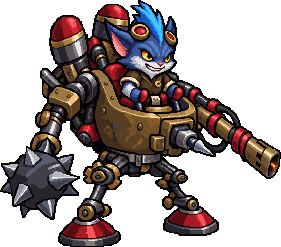
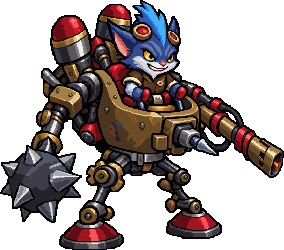
rumble: step 0 is the user's rumble-sized-v4 (A and B read back from raw/: hd/A 284x250, hd/B 234x161); step-1 pack redone on B (63 rows, 12 px squares, PPU 1.75 at 36 game px, two takes)
Claude-Session: https://claude.ai/code/session_016HegXd5kPbtR1EjTAwa61E

Changed region(s): [[0.0, 0.0, 1.0, 1.0], [0.2278, 0.9919, 0.2562, 1.0]]

diff --git a/tools/art/design_rumble_hd.py b/tools/art/design_rumble_hd.py
@@ -1,17 +1,20 @@
 #!/usr/bin/env python3
-"""Rumble's step-0 picture read back on its own grid.
+"""Rumble's step-0 pictures read back on their own grid, A and B on one palette.
 
-    python tools/art/design_rumble_hd.py [--a 5.0]   # writes assets/source/rumble/hd/A.png (+ _4x)
+    python tools/art/design_rumble_hd.py [--a 5.0] [--b 4.2]   # writes assets/source/rumble/hd/{A,B}.png (+ _4x)
 
-Step 0 (assets/source/rumble/codex_picture/rumble-1.png, delivered 2026-10-25 as one 1254 px webp, saved as png): his
-idle 3/4 front facing right; drawn without League's references (the pack went out without refs 1-9: the container could
+Step 0 (assets/source/rumble/codex_picture/rumble-sized-v4, the user's pick 2026-10-25: 「用这个吧 刚才那个不对」 - its
+raw/ drafts; its own rumble-A/B.png are the drafts squeezed by nearest-neighbour into a 484x495 box, x and y by different
+factors, so they are not read). A: his idle 3/4 front facing right (the same drawing as the first delivery, re-encoded);
+B: the same "more chibi" - the head about a third of his height, the mech shorter and rounder, drawn smaller on the
+canvas (squares about 4 px). drawn without League's references (the pack went out without refs 1-9: the container could
 not reach raw.communitydragon.org), so Codex drew Rumble from its own knowledge - blue fur and a blue mohawk, the goggles
 pushed up, yellow eyes, a grin; the mech brass-olive and rusty, a long flamethrower cannon forward (image right), a
 harpoon spike on its chest, a SPIKED MACE BALL on the back arm (asked: a claw), two red-capped rocket pods on its back,
 thin jointed legs on red disc feet. Asked 1536 and 11 px squares: the squares run 4-5 px (soft, no exact grid, lossy
 alpha 224-254 inside); regrid is given a little above (it splits rows below the real square), as for Kled.
-Read on SIZE px squares, one pixel per drawn square; the colours cut to COLOURS by k-means in Lab (design_varus.kmeans),
-alpha 0/255.
+Read on SIZE px squares, one pixel per drawn square; the colours of the two cut to COLOURS together by k-means in Lab
+(design_varus.kmeans), alpha 0/255.
 """
 import argparse
 import os
@@ -34,9 +37,9 @@ def lp(path):
     return pre + path if os.name == "nt" and not path.startswith(pre) else path
 
 
-SRC = os.path.join(ROOT, "assets", "source", "rumble", "codex_picture")
+SRC = os.path.join(ROOT, "assets", "source", "rumble", "codex_picture", "rumble-sized-v4", "raw")
 OUT = os.path.join(ROOT, "assets", "source", "rumble", "hd")
-FILES = {"A": "rumble-1.png"}
+FILES = {"A": "rumble-A-raw.png", "B": "rumble-B-raw.png"}
 COLOURS = 40
 
 
@@ -54,18 +57,30 @@ def read(name, size):
 def main():
     ap = argparse.ArgumentParser()
     ap.add_argument("--a", type=float, default=5.0)
+    ap.add_argument("--b", type=float, default=4.2)
     ap.add_argument("--out", default=OUT)
     a = ap.parse_args()
     os.makedirs(lp(a.out), exist_ok=True)
-    d = read("A", a.a)
-    op = d[..., 3] > 0
-    idx, pal = V.kmeans(d, COLOURS)
-    out = np.zeros_like(d)
+    parts = [read("A", a.a), read("B", a.b)]
+    h = max(p.shape[0] for p in parts)
+    both = np.zeros((h, sum(p.shape[1] for p in parts), 4), np.uint8)
+    x = 0
+    for p in parts:
+        both[:p.shape[0], x:x + p.shape[1]] = p
+        x += p.shape[1]
+    op = both[..., 3] > 0
+    idx, pal = V.kmeans(both, COLOURS)
+    out = np.zeros_like(both)
     out[op, :3] = pal[idx[op]]
     out[op, 3] = 255
-    Image.fromarray(out).save(lp(os.path.join(a.out, "A.png")))
-    Image.fromarray(np.repeat(np.repeat(out, 4, 0), 4, 1)).save(lp(os.path.join(a.out, "A_4x.png")))
-    print("A", out.shape[1], "x", out.shape[0])
+    x = 0
+    for name, p in zip(("A", "B"), parts):
+        part = out[:p.shape[0], x:x + p.shape[1]]
+        x += p.shape[1]
+        part = part[np.ix_(np.any(part[..., 3] > 0, 1), np.any(part[..., 3] > 0, 0))]
+        Image.fromarray(part).save(lp(os.path.join(a.out, f"{name}.png")))
+        Image.fromarray(np.repeat(np.repeat(part, 4, 0), 4, 1)).save(lp(os.path.join(a.out, f"{name}_4x.png")))
+        print(name, part.shape[1], "x", part.shape[0])
 
 
 if __name__ == "__main__":

diff --git a/tools/art/pack_rumble_model.py b/tools/art/pack_rumble_model.py
@@ -4,14 +4,14 @@ BIG so the image generator's habit of filling the canvas lands on the right coun
 
     python tools/art/pack_rumble_model.py [--out outputs/rumble_model_pack]
 
-The pick (2026-10-25, review_rumble_size.py): 44 game px from the tip of his mohawk to the mech's red feet at PPU 1.75
-(Yorick's) -> 77 squares (hd/A, the mohawk its first row, 247 rows); about 88 squares across with the mace and the
-cannon, so 13 px squares (88 x 13 = 1144 inside Codex's 1254 canvas). The pilot's head is only ~29% of the height in
-step 0 (rows 0-72): take 1 keeps the design, take 2 is the "more chibi" B the step-0 pack asked for and did not get
-(the head about a third of the height, the mech more compact). The feet's bottom edge is a whole number of squares from
-the canvas top (1196 = 92 x 13), so the grid starts at the corner.
-Writes <out>/ (and <out>.zip): MODEL_PROMPTS.md, 1_picture_A.png (step 0, the look to keep), 2_target_A.png (cut to the
-count: size, place, pose - details broken), 3_layout_A.png (with the grid, the top / eye / ground lines), 4_head.png (his
+The design: step 0's B (rumble-sized-v4, the user's delivery 2026-10-25), the more chibi one - at game size A's face is a
+few pixels (its head ~29% of the height), B's reads like Heimerdinger's (review_rumble_size.py). B is wide (1.45 : 1),
+so the pick is 36 game px from the tip of his mohawk to the mech's red feet at PPU 1.75 (Yorick's) -> 63 squares (hd/B,
+the mohawk its first row, 161 rows), about 53 game px / 92 squares across with the mace and the cannon (Urgot 49):
+12 px squares (92 x 12 = 1104 inside Codex's 1254 canvas). Two takes of one prompt. The feet's bottom edge is a whole
+number of squares from the canvas top (1188 = 99 x 12), so the grid starts at the corner.
+Writes <out>/ (and <out>.zip): MODEL_PROMPTS.md, 1_picture_B.png (step 0, the look to keep), 2_target_B.png (cut to the
+count: size, place, pose - details broken), 3_layout_B.png (with the grid, the top / eye / ground lines), 4_head.png (his
 head read back, 8x), style/5..7.
 """
 import argparse
@@ -31,8 +31,8 @@ from pack_gangplank_model import cut, up  # noqa: E402
 
 SRC = os.path.join(ROOT, "assets", "source", "rumble")
 # name -> (rows, px a square, lowest point's bottom edge, his eye row in hd/<name>.png)
-PICS = {"A": (77, 13, 1196, 56)}
-HEAD = (0, 76, 104, 182)   # rows / cols of his head (the mohawk to the chin, both ears, the goggles) in hd/A.png
+PICS = {"B": (63, 12, 1188, 46)}
+HEAD = (0, 66, 86, 160)   # rows / cols of his head (the mohawk to the chin, both ears, the goggles) in hd/B.png
 GREY = (225, 225, 225)
 STYLE = {"5_style_kled.png": ("kled", "hd_idle"), "6_style_blitzcrank.png": ("blitzcrank", "idle"),
          "7_style_urgot.png": ("urgot", "hd_idle")}
@@ -61,11 +61,12 @@ def main():
         RM.lines(lay, top, eye, f"{name}: orange the top y {top}   blue his eyes y {eye}   red ground y {sole}   "
                  f"one square = {px} px   {g.shape[1]} x {g.shape[0]} squares")
         lay.convert("RGB").save(os.path.join(out, f"3_layout_{name}.png"))
-        shutil.copyfile(lp(os.path.join(SRC, "codex_picture", "rumble-1.png")), os.path.join(out, f"1_picture_{name}.png"))
+        shutil.copyfile(lp(os.path.join(SRC, "codex_picture", "rumble-sized-v4", "raw", f"rumble-{name}-raw.png")),
+                        os.path.join(out, f"1_picture_{name}.png"))
         report.append(f"{name} {g.shape[1]}x{g.shape[0]} at ({x0},{y0}) px {px}, top y {top}, eyes y {eye}, "
                       f"ground y {sole}")
     r0, r1, c0, c1 = HEAD
-    d = np.asarray(Image.open(lp(os.path.join(SRC, "hd", "A.png"))).convert("RGBA"))
+    d = np.asarray(Image.open(lp(os.path.join(SRC, "hd", "B.png"))).convert("RGBA"))
     h = d[r0:r1, c0:c1]
     hb = Image.new("RGBA", (h.shape[1] * 8, h.shape[0] * 8), GREY + (255,))
     hb.alpha_composite(Image.fromarray(up(h, 8)))

diff --git a/tools/art/review_rumble_size.py b/tools/art/review_rumble_size.py
@@ -1,5 +1,5 @@
 #!/usr/bin/env python3
-"""Rumble's step-0 design at game size at several heights and PPUs, next to the pack's yordles and machines (Kled,
+"""Rumble's step-0 designs (A, and B the more chibi one, each at its own height) at game size at several heights and PPUs, next to the pack's yordles and machines (Kled,
 Blitzcrank, Corki, Heimerdinger, Urgot, Ziggs) as the game shows them, the lowest points on one line, for the user's pick.
 
     python tools/art/review_rumble_size.py --out DIR [--a 36,40,44] [--ppu 1.5,1.75,2.0] [--scale 4]
@@ -27,7 +27,7 @@ import ppu_hd  # noqa: E402
 SRC = os.path.join(ROOT, "assets", "source", "rumble", "hd")
 CHAMPS = os.path.join(ROOT, "league", "champions")
 NEIGHBOURS = ["kled", "blitzcrank", "corki", "heimerdinger", "urgot", "ziggs"]
-TOP = {"A": 0}   # the mohawk's outline row
+TOP = {"A": 0, "B": 0}   # the mohawk's outline row
 BG = (196, 200, 190, 255)
 
 
@@ -60,15 +60,15 @@ def main():
     ap.add_argument("--ppu", default="1.5,1.75,2.0")
     ap.add_argument("--scale", type=int, default=4)
     a = ap.parse_args()
-    D = {"A": np.asarray(Image.open(lp(os.path.join(SRC, "A.png"))).convert("RGBA"))}
+    D = {k: np.asarray(Image.open(lp(os.path.join(SRC, f"{k}.png"))).convert("RGBA")) for k in ("A", "B")}
     hs = [int(x) for x in a.a.split(",")]
     rows = []
     for ppu in [float(x) for x in a.ppu.split(",")]:
         cells = []
-        for key, heights in (("A", hs),):
+        for key, heights in (("A", hs), ("B", hs)):
             d = D[key]
             for h in heights:
-                k = ppu * h / (D["A"].shape[0] - TOP["A"])
+                k = ppu * h / (D[key].shape[0] - TOP[key])
                 im, _ = PD.pixelate(d, k, (d.shape[1] / 2, d.shape[0]), PD.edge_colour(d))
                 im = Image.fromarray(im)
                 im = im.crop(im.getbbox())

diff --git a/assets/source/rumble/MODEL_PROMPTS.md b/assets/source/rumble/MODEL_PROMPTS.md
@@ -1,77 +1,68 @@
 # 机械公敌 兰博：第 1 步，游戏尺寸造型（给 Codex 的提示词）
 
-> **这一步必须用画图模型（image_gen）画，不要用 Python 脚本逐格写，也不要把大图平滑缩小**。
-> - 第 0 步你画的原稿（`1_picture_A.png`）**样子、颜色用户认可了，全照它**：蓝毛约德尔人、蓝色莫西干头、额头上推着的红镜片护目镜、黄眼睛、坏笑；黄铜色带锈的机甲、往前伸的长喷火炮管、胸前的鱼叉尖、后面那只手的**带刺铁球**、背上两个红头火箭舱、细关节腿和红色圆盘脚。
-> - 这一步要画成**游戏里的格子数**：**从莫西干头顶到红色圆盘脚底 77 格**。我把图直接缩到这个格子数（`2_target_A.png`）：**大小、位置、姿势对，细节是缩坏的**（脸只剩几个色块、锈斑碎成杂斑）。请像一个像素画师照着第 0 步的图，在这么粗的格子上**重新画一遍**，每个细节都用整格画清楚。
-> - 第 0 步你的格子画得太细了（约 5 px 一格，约 247 格高）：这一步**每格画大**。画布用你平时的 **1254 × 1254**，**每格 13 px**。每一格都是一个完整的大方块，不要用更小的格子画细节。
-> - 一共画**两张**，都是 3/4 正面朝右、同一个待机姿势：
->   - **A-1：照原稿的比例**。
->   - **A-2：更 Q 的版本**——驾驶员的**头更大**（头连耳朵和莫西干约占全身高的三分之一，原稿只有四分之一出头），机甲**更紧凑**：炮管短一点、铁球小一点、腿短一点，总高还是 77 格。游戏里他只有 44 个像素高，A-2 是为了让脸看得清。
+> **这一步必须用画图模型（image_gen）画，不要用 Python 脚本逐格写，也不要把大图平滑缩小**（上一包 `rumble-sized-v4` 的 `rumble-A/B.png` 就是把大图最近邻压进一个框里、横竖压得还不一样，这样不行）。
+> - 第 0 步你画的 **B 稿**（`1_picture_B.png`，更 Q 的那张）**样子、颜色、比例用户认可了，全照它**：蓝毛约德尔人、亮蓝莫西干头、额头上推着的红镜片金框护目镜、黄眼睛、坏笑；黄铜色带锈的敞口驾驶舱、往前伸的长喷火炮管（红箍）、后面那只机械手握着的**带刺铁球**、背上两个红头火箭舱、短粗的关节腿和红色圆盘脚。
+> - 这一步要画成**游戏里的格子数**：**从莫西干头顶到红色圆盘脚底 63 格**。我把图直接缩到这个格子数（`2_target_B.png`）：**大小、位置、姿势对，细节是缩坏的**（脸只剩几个色块、锈斑碎成杂斑）。请像一个像素画师照着第 0 步的图，在这么粗的格子上**重新画一遍**，每个细节都用整格画清楚。
+> - 第 0 步你的格子画得太细了（约 4 px 一格，约 161 格高）：这一步**每格画大**。画布用你平时的 **1254 × 1254**，**每格 12 px**。每一格都是一个完整的大方块，不要用更小的格子画细节。
+> - 同一段提示词画**两张**（B-1、B-2），都是 3/4 正面朝右、同一个待机姿势，用户从里面挑。
 
 ## 大小和位置
 
-- 画布 **1254 × 1254**，网格从画布左上角 (0, 0) 开始对齐（`3_layout_A.png` 的浅灰线每 5 格一条）。
-- 每格 **13 px**；照 `2_target_A.png` / `3_layout_A.png`：莫西干头顶 **y = 195**（橙线），他的眼睛约 **y = 416**（蓝线），红色圆盘脚底 **y = 1196**（红线）：**77 格高、约 88 格宽**（铁球和炮管算在宽里；A-2 可以窄一些）。
+- 画布 **1254 × 1254**，网格从画布左上角 (0, 0) 开始对齐（`3_layout_B.png` 的浅灰线每 5 格一条）。
+- 每格 **12 px**；照 `2_target_B.png` / `3_layout_B.png`：莫西干头顶 **y = 432**（橙线），他的眼睛约 **y = 648**（蓝线），红色圆盘脚底 **y = 1188**（红线）：**63 格高、约 92 格宽**（铁球和炮管算在宽里）。
 - 全在画布里，莫西干、耳朵、火箭舱、铁球、炮管不出画，四周留至少 1 格空。
 
 ## 在这么少的格子里要画清楚的地方
 
 `4_head.png` 是第 0 步读回的他的头（8 倍），看位置和颜色。
 
-- **兰博的脸**（最要紧）：蓝色的毛 3 档、白色的嘴套和下巴；**两只黄眼睛一样高**：近的那只（画面左边）**2 × 2 格**、远的那只 **2 × 2 格**（可以窄一格），各一格黑瞳、一格亮黄；眉毛 1 格、往下压，显得坏；粉红色的小鼻子 1 格；**坏笑**：一条黑色的嘴线，露出一排**白牙**（上排 1 格高）。
-- **头发和耳朵**：**亮蓝色的莫西干**往上往后翘（3 档，一缕一缕的尖）；**一对大尖耳朵**（近的那只往左后方伸、耳内粉色 2 档；远的那只竖在右边）。
-- **护目镜**：两个**红色镜片 + 金色镜框**，推在额头上（近的大、远的小），**不挡眼睛**。
+- **兰博的脸**（最要紧）：**大头**（头连耳朵和莫西干约占全身高的三分之一，和 B 稿一样）；蓝色的毛 3 档、白色的嘴套和下巴，朝右前方；**两只黄眼睛一样高**：近的那只（画面左边）**3 × 2 格**、远的那只 **2 × 2 格**，各一格黑瞳、一格亮黄、一格白高光；眉毛 1 格、往下压，显得坏；粉红色的小鼻子 1–2 格；**坏笑**：一条黑色的嘴线，露出一排**白牙**（1 格高）。
+- **头发和耳朵**：**亮蓝色的莫西干**往上往后翘（3 档，一缕一缕的尖，最高点就是它的尖）；**一对大尖耳朵**（近的那只往左后方伸、耳内粉色 2 档；远的那只竖在右边）。
+- **护目镜**：两个**红色镜片 + 金色镜框**（八角形的框），推在额头上（近的大、远的小），**不挡眼睛**。
 - **身上**：棕色皮夹克（2–3 档）、金色扣子，白毛的胳膊、蓝色的手抓着驾驶舱前沿的**红色操纵杆**。
-- **机甲**：**黄铜 / 橄榄色的驾驶舱外壳**（3–4 档 + 一档亮边，几块锈斑用暗一档的整格表示，铆钉一格亮）；驾驶舱下沿一条**银灰色腰带**；**长喷火炮管**往画面右边伸出（黄铜色，几道**红色箍**，炮口一格橙色的火光芯、周围是黑的），炮管上绕着**黑色管子**；胸前一个**银色鱼叉尖**朝右；**后面那条胳膊**（画面左边）是黑色的关节加黄铜护甲，末端一个**带刺的黑铁球**（4–6 根银色尖刺，每根 2–3 格）；背上两个**火箭舱**（黑灰色筒身、**红色圆头**、金色箍）；**两条细的黑色关节腿**（金色齿轮关节），脚是**红色的大圆盘**（红 2 档 + 黑色鞋底一圈）。
+- **机甲**：**黄铜 / 橄榄色的敞口驾驶舱**（3–4 档 + 一档亮边，几块锈斑用暗一档的整格表示，铆钉一格亮）；**长喷火炮管**往画面右边伸出、稍微朝下（黄铜色，几道**红色箍**，炮口黑的，**不要火**），炮管上绕着**黑色管子**；**后面那条胳膊**（画面左边）是黑色关节加黄铜护甲，机械手握着一个**带刺的黑铁球**（4–6 根银色尖刺，每根 2–3 格）；背上两个**火箭舱**（黑灰色筒身、**红色圆头**、金色箍）；**短粗的黑色关节腿**（金色齿轮关节），脚是**红色的大圆盘**（红 2 档 + 黑色鞋底一圈）。
 - 近的腿（画面左）全亮，远的腿暗一档；**两腿之间、铁球和身体之间、炮管和身体之间空出来看得见背景**。
 - **一圈 1 格的近黑外描边**，连续不断（管子、炮管、铁球的尖刺也要描边）；描边里面每种材质用它自己最暗的一档；没有孤立的单个杂色格。
 
 ## 干净
 
 - 和附图 5–7 一样的像素画（本包的克烈、布里茨、厄加特，8 倍放大，一格 = 一个像素）：大小一致的方块、对齐网格，2–4 档平涂，不要抖动、渐变、柔光。
-- **真透明背景，alpha 只能是 0 或 255**，边缘不要半透明。不要网格线、文字、边框、投影、地面、技能特效（火焰、烟、电光、火箭尾焰都不画；炮口只留一格火光芯）。
+- **真透明背景，alpha 只能是 0 或 255**，边缘不要半透明。不要网格线、文字、边框、投影、地面、技能特效（火焰、烟、电光、火箭尾焰、鱼叉都不画）。
 
 ## 附图（压缩包 `rumble_model_pack.zip`）
 
 | 文件 | 内容 |
 |---|---|
-| `1_picture_A.png` | 第 0 步你画的原稿：**样子和颜色全照它** |
-| `2_target_A.png` | 直接缩到 77 格：**只看大小、位置、姿势**，细节是坏的 |
-| `3_layout_A.png` | 带网格和三条线（橙 = 莫西干头顶，蓝 = 他的眼睛，红 = 脚底） |
+| `1_picture_B.png` | 第 0 步你画的 B 稿：**样子、颜色、比例全照它** |
+| `2_target_B.png` | 直接缩到 63 格：**只看大小、位置、姿势**，细节是坏的 |
+| `3_layout_B.png` | 带网格和三条线（橙 = 莫西干头顶，蓝 = 他的眼睛，红 = 脚底） |
 | `4_head.png` | 读回的他的头（8 倍）：位置和颜色 |
 | `style/5_style_kled.png` `6_style_blitzcrank.png` `7_style_urgot.png` | **只看风格** |
 
-## 提示词（A-1、A-2 同一段，只换最后一句；附 1_picture_A、2_target_A、3_layout_A、4_head、style 三张）
+## 提示词（B-1、B-2 各画一次，同一段；附 1_picture_B、2_target_B、3_layout_B、4_head、style 三张）
 
 ```text
-Attached: 1 the character's approved picture (THE LOOK AND COLOURS TO KEEP), 2 the same picture cut down to the target square count (ONLY its size, place and pose are right - its details are broken), 3 the layout with the grid and three lines (orange = the tip of his mohawk, blue = his eyes, red = the bottom of the feet), 4 his head read back 8x (where things are), 5-7 STYLE ONLY: other characters of the same game shown 8x, one square = one pixel.
-Redraw image 1 as GAME-SIZE PIXEL ART like a pixel artist: a 1254x1254 PNG with a genuine transparent background (alpha only 0 or 255), every square 13 px, aligned on one grid starting at the canvas corner (0, 0). THE LITTLE BLUE-FURRED BIG-EARED PILOT IN HIS BRASS SCRAP-METAL MECH at rest in 3/4 view facing right, the pose of images 1-2: the mech standing on its two thin jointed legs, the long flamethrower cannon held forward on the image right, the spiked iron ball hanging from the back arm on the image left, the pilot leaning out of the open cockpit; the tip of his mohawk at y 195, his eyes at about y 416, the bottom of the red disc feet on y 1196 - 77 squares tall, about 88 squares wide. Every detail in whole 13-px squares - never smaller squares.
-HIS FACE (most important): BLUE FUR in 3 shades with a WHITE muzzle and chin, turned to the front-right; TWO YELLOW EYES at the SAME height, each 2x2 squares (the far one may be 1 square narrower) with one black pupil square and one bright yellow square; a 1-square brow pressed down (cheeky, mean); a 1-square pink nose; a CHEEKY GRIN: a black mouth line with a row of WHITE TEETH (1 square tall).
-THE HAIR AND EARS: a BRIGHT BLUE MOHAWK sweeping up and back (3 shades, pointed strands); TWO BIG POINTED EARS (the near one reaching back to the image left, pink inside in 2 shades; the far one upright on the right).
-THE GOGGLES: two RED LENSES in GOLD RIMS pushed up on his forehead (the near one bigger), NEVER over the eyes.
+Attached: 1 the character's approved picture (THE LOOK, COLOURS AND PROPORTIONS TO KEEP), 2 the same picture cut down to the target square count (ONLY its size, place and pose are right - its details are broken), 3 the layout with the grid and three lines (orange = the tip of his mohawk, blue = his eyes, red = the bottom of the feet), 4 his head read back 8x (where things are), 5-7 STYLE ONLY: other characters of the same game shown 8x, one square = one pixel.
+Redraw image 1 as GAME-SIZE PIXEL ART like a pixel artist: a 1254x1254 PNG with a genuine transparent background (alpha only 0 or 255), every square 12 px, aligned on one grid starting at the canvas corner (0, 0). THE LITTLE BLUE-FURRED BIG-EARED PILOT IN HIS COMPACT BRASS SCRAP-METAL MECH at rest in 3/4 view facing right, the pose of images 1-2: the mech standing on its short jointed legs, the long flamethrower cannon held forward and a little down on the image right, the spiked iron ball held low by the back arm's mechanical hand on the image left, the pilot leaning out of the open cockpit with his big head; the tip of his mohawk at y 432, his eyes at about y 648, the bottom of the red disc feet on y 1188 - 63 squares tall, about 92 squares wide. Every detail in whole 12-px squares - never smaller squares. Do NOT shrink or squeeze image 1 - redraw it square by square.
+HIS FACE (most important): a BIG chibi HEAD (with the ears and the mohawk about a third of the whole height, as in image 1); BLUE FUR in 3 shades with a WHITE muzzle and chin, turned to the front-right; TWO YELLOW EYES at the SAME height: the near one (image left) 3x2 squares, the far one 2x2, each with one black pupil square, one bright yellow square and one white highlight; a 1-square brow pressed down (cheeky, mean); a 1-2 square pink nose; a CHEEKY GRIN: a black mouth line with a row of WHITE TEETH (1 square tall).
+THE HAIR AND EARS: a BRIGHT BLUE MOHAWK sweeping up and back (3 shades, pointed strands; its tip the highest point); TWO BIG POINTED EARS (the near one reaching back to the image left, pink inside in 2 shades; the far one upright on the right).
+THE GOGGLES: two RED LENSES in GOLD octagonal RIMS pushed up on his forehead (the near one bigger), NEVER over the eyes.
 HIS BODY: a BROWN leather jacket (2-3 shades) with gold buttons, white-furred arms, blue hands on RED control levers at the cockpit's front rim.
-THE MECH: a BRASS / OLIVE cockpit hull (3-4 shades and one lighter edge, a few rust patches as whole squares a shade darker, rivets one bright square each); a SILVER-GREY belt under the cockpit; the LONG FLAMETHROWER CANNON reaching to the image right (brass, a few RED bands, the muzzle black with one orange glow square inside), black hoses wound round it; a SILVER HARPOON TIP on its chest pointing right; the BACK ARM (image left) black joints with brass plates ending in a BLACK SPIKED IRON BALL (4-6 silver spikes, each 2-3 squares); two ROCKET PODS on its back (dark grey bodies, RED round caps, gold bands); two THIN BLACK JOINTED LEGS with gold gear joints; big RED DISC FEET (red in 2 shades, a black sole ring).
+THE MECH: a BRASS / OLIVE open cockpit hull (3-4 shades and one lighter edge, a few rust patches as whole squares a shade darker, rivets one bright square each); the LONG FLAMETHROWER CANNON reaching to the image right (brass, a few RED bands, the muzzle dark, NO fire), black hoses wound round it; the BACK ARM (image left) black joints with brass plates, its mechanical hand holding a BLACK SPIKED IRON BALL (4-6 silver spikes, each 2-3 squares); two ROCKET PODS on its back (dark grey bodies, RED round caps, gold bands); SHORT THICK BLACK JOINTED LEGS with gold gear joints; big RED DISC FEET (red in 2 shades, a black sole ring).
 The near leg (image left) in full tone, the far one a step darker; the background visible between the legs, between the iron ball and the body and between the cannon and the body.
 A continuous 1-square near-black outline round the whole character (the hoses, the cannon and the spikes too); inside it every material in its own 2-4 flat shades, the shadow of a material its own darkest shade; no stray single odd squares; no dithering, no gradients, no soft glow, no blur, no anti-aliasing.
-No background, no grid lines, no text, no frame, no cast shadow, no ground, no spell effects (no flame, no smoke, no sparks, no rocket exhaust; the muzzle only its one glow square).
-A-1 (rumble-A-1.png): the proportions of image 1 as they are.
-```
-
-**A-2 把最后一句换成：**
-
-```text
-A-2 (rumble-A-2.png): MORE CHIBI - the SAME total height (77 squares, the same three lines) but the pilot's HEAD clearly BIGGER: the head with the ears and the mohawk about a THIRD of the whole height (in image 1 only about a quarter), the face bigger with it (each eye 2x2 or 3x2 squares); the mech more COMPACT round him: the cannon a little shorter, the iron ball a little smaller, the legs a little shorter; the same parts and the same colours.
+No background, no grid lines, no text, no frame, no cast shadow, no ground, no spell effects (no flame, no smoke, no sparks, no rocket exhaust, no harpoon).
 ```
 
 ## 交回前请检查
 
-- 1254 × 1254，真透明（alpha 只有 0 / 255）；**每格 13 px**，对齐从 (0, 0) 开始的网格；莫西干头顶 y 195、脚底 y 1196（77 格）。
-- **兰博的脸**：蓝毛白嘴套；**两只黄眼睛一样高、各 2×2**；压低的眉毛；粉鼻子；坏笑露白牙；亮蓝莫西干；大尖耳朵（耳内粉）；**红镜片金框护目镜推在额头上、不挡眼睛**。**A-1 和 A-2 是同一张脸**（A-2 只是更大）。
-- 棕色皮夹克；红色操纵杆；黄铜驾驶舱 + 锈斑铆钉；银灰腰带；长喷火炮管（红箍、黑管子、炮口一格火光）；胸前银鱼叉尖；后手带刺黑铁球；背上两个红头火箭舱；细黑关节腿 + 金齿轮；红色圆盘脚。
+- 1254 × 1254，真透明（alpha 只有 0 / 255）；**每格 12 px**，对齐从 (0, 0) 开始的网格；莫西干头顶 y 432、脚底 y 1188（63 格）；**是重新画的，不是把原图缩小或压扁**。
+- **兰博的脸**：大头（约三分之一）；蓝毛白嘴套；**两只黄眼睛一样高**（近 3×2、远 2×2）；压低的眉毛；粉鼻子；坏笑露白牙；亮蓝莫西干；大尖耳朵（耳内粉）；**红镜片金框护目镜推在额头上、不挡眼睛**。**B-1 和 B-2 是同一张脸**。
+- 棕色皮夹克；红色操纵杆；黄铜驾驶舱 + 锈斑铆钉；长喷火炮管（红箍、黑管子、**炮口没有火**）；后手握着带刺黑铁球；背上两个红头火箭舱；短粗黑关节腿 + 金齿轮；红色圆盘脚。
 - 1 格近黑外描边连续；没有零散杂色格、没有抖动和渐变。
-- 交付：`outputs/rumble-model/rumble-A-1.png`、`rumble-A-2.png`；原始生成图原样放进 `outputs/rumble-model/raw/`；`generation-prompts.txt` 写实际提示词；**最后**写 `outputs/rumble-model/HANDOFF.md`，再打包成 `outputs/rumble_model_done.zip`。中间不要停，两张都画完再交。
+- 交付：`outputs/rumble-model/rumble-B-1.png`、`rumble-B-2.png`；原始生成图原样放进 `outputs/rumble-model/raw/`；`generation-prompts.txt` 写实际提示词；**最后**写 `outputs/rumble-model/HANDOFF.md`，再打包成 `outputs/rumble_model_done.zip`。中间不要停，两张都画完再交。
 
 ## Claude 收到后（给 Claude 看）
 
-- 放进 `assets/source/rumble/codex_model/`，在 8 倍下量 Codex 实际的格子（读 raw；Codex 常画得比要求的粗或细，按它自己的格子读回），裁到 77 行（keep_axis、脸框保留，`design_sejuani_model.py` 的做法），12 倍下看脸（两只黄眼睛一样高、护目镜不挡眼、牙），和 `review_rumble_size.py` 的邻居并排给用户挑稿 -> `hd/idle.png`（PPU 1.75，莫西干到脚底 44 游戏像素）。
-- 第 0 步交付的原稿没有用英雄联盟的参考图（容器连不上 raw.communitydragon.org，包里缺附图 1–9），后面那只手是 Codex 自己画的带刺铁球（提示词要的是铁钳爪）：用户收下了这一稿，普攻按铁球砸做。
+- 放进 `assets/source/rumble/codex_model/`，在 8 倍下量 Codex 实际的格子（读 raw；Codex 常画得比要求的粗或细，按它自己的格子读回），裁到 63 行（keep_axis、脸框保留，`design_sejuani_model.py` 的做法），12 倍下看脸（两只黄眼睛一样高、护目镜不挡眼、牙），和 `review_rumble_size.py` 的邻居并排给用户挑稿 -> `hd/idle.png`（PPU 1.75，莫西干到脚底 36 游戏像素，约 53 宽）。
+- 第 0 步（`codex_picture/rumble-sized-v4`）没有用英雄联盟的参考图（容器连不上 raw.communitydragon.org，包里缺附图 1–9）；Codex 按用户的纠正画了原版的带刺铁球（不是提示词里的铁钳爪）：普攻按铁球砸做。A 稿（标准比例）在游戏大小下脸只有几个像素，按 B 做。

diff --git a/assets/source/rumble/codex_picture/rumble-sized-v4/HANDOFF.md b/assets/source/rumble/codex_picture/rumble-sized-v4/HANDOFF.md
@@ -1,0 +1,22 @@
+# 兰博尺寸修正版 v4
+
+根据用户“模型太大，参考压缩包提示词”的反馈，重新核对 PICTURE_PROMPT.md 并修正导出尺寸与位置。角色保留用户已纠正的原版重锤/狼牙棒与喷火器，以及3/4正面朝右。
+
+## 交付文件
+- rumble-A.png：标准比例版，1536×1536透明PNG。
+- rumble-B.png：较大头、较短腿版，1536×1536透明PNG。
+- raw/rumble-A-raw.png、raw/rumble-B-raw.png：原始生成图，未经改动。
+- generation-prompts.txt：实际生成提示词与导出方式。
+- size-validation.json：主交付图的尺寸检查。
+- grid-preview/：44×45逻辑格、每格11px的对照预览，面部细节明显损失，不作为主交付图。
+- validation.json：仅对应grid-preview网格预览的检查数据。
+
+## 已完成的尺寸检查
+两张主图均为1536×1536，角色外接框484×495，从x526/y895至x1010/y1390（右下边界不含），脚底距画布底边146px，居中。透明通道只有0与255，无半透明边。
+
+导出通过裁切透明边、最近邻重采样、调整至指定外接框及画布定位完成；为同时满足宽度上限和495px高度，横纵缩放比例不同，角色比例相对生成原稿有所变窄。未把原始图的细节假称为11px网格。
+
+## 尚未达到的严格造型规格
+主交付图保留较细的原画像素，未达到严格11×11像素格及2格宽描边；强制网格化预览已附，脸部细节不足。A/B脸部属于同一角色设计，但不是逐像素复用同一张脸；B头身比例以及两臂自然垂下的姿势也未完全达到提示词。该版本完成尺寸修正，不能宣称已完成提示词全部严格生产验收。
+
+附件原版refs/参考图在用户zip内缺失。人物来源沿用本会话核对的英雄联盟官方原画及原版模型。用户后续对原版武器与朝向的纠正优先于包内铁钳描述。
